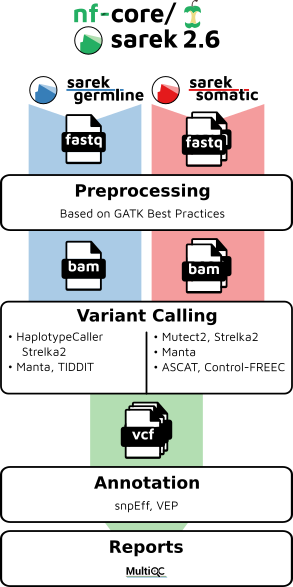
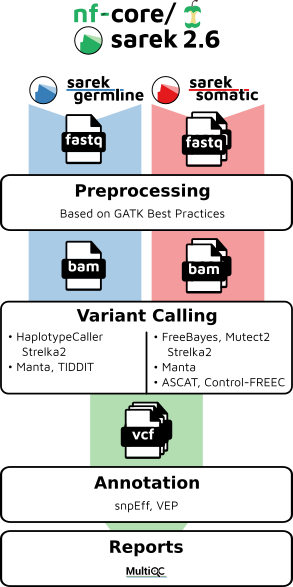
restore FreeBayes

Changed region(s): [[0.5529, 0.552, 0.9829, 0.6746]]

diff --git a/bin/scrape_software_versions.py b/bin/scrape_software_versions.py
@@ -9,6 +9,7 @@ regexes = {
     'bcftools': ['v_bcftools.txt', r"bcftools (\S+)"],
     'BWA': ['v_bwa.txt', r"Version: (\S+)"],
     'FastQC': ['v_fastqc.txt', r"FastQC v(\S+)"],
+    'FreeBayes': ['v_freebayes.txt', r"version:  v(\d\.\d\.\d+)"],
     'GATK': ['v_gatk.txt', r"Version:(\S+)"],
     'htslib': ['v_samtools.txt', r"htslib (\S+)"],
     'Manta': ['v_manta.txt', r"([0-9.]+)"],
@@ -32,6 +33,7 @@ results['ASCAT'] = '<span style="color:#999999;\">N/A</span>'
 results['bcftools'] = '<span style="color:#999999;\">N/A</span>'
 results['BWA'] = '<span style="color:#999999;\">N/A</span>'
 results['FastQC'] = '<span style="color:#999999;\">N/A</span>'
+results['FreeBayes'] = '<span style="color:#999999;\">N/A</span>'
 results['GATK'] = '<span style="color:#999999;\">N/A</span>'
 results['htslib'] = '<span style="color:#999999;\">N/A</span>'
 results['Manta'] = '<span style="color:#999999;\">N/A</span>'

diff --git a/docs/output.md b/docs/output.md
@@ -17,6 +17,7 @@ The pipeline processes data using the following steps:
         * `GATK ApplyBQSR`
 2. [**Variant calling**](#Variant-Calling)
     * SNVs and small indels
+        * [`FreeBayes`](#FreeBayes)
         * [`GATK HaplotypeCaller`](#HaplotypeCaller)
         * [`GATK GenotypeGVCFs`](#GenotypeGVCFs)
         * [`GATK Mutect2`](#Mutect2)
@@ -98,6 +99,18 @@ For all samples:
 All the results regarding variant-calling are collected in this directory.
 
 Recalibrated BAM files can also be used as an input to start the Variant Calling, for more information see [TSV files output information](#TSV-files)
+
+### FreeBayes
+
+[FreeBayes](https://github.com/ekg/freebayes) is a Bayesian genetic variant detector designed to find small polymorphisms, specifically SNPs, indels, MNPs, and complex events smaller than the length of a short-read sequencing alignment..
+
+For further reading and documentation see the [FreeBayes manual](https://github.com/ekg/freebayes/blob/master/README.md#user-manual-and-guide).
+
+For a Tumor/Normal pair only:
+**Output directory: `results/VariantCalling/[TUMOR_vs_NORMAL]/FreeBayes`**
+
+* `FreeBayes_[TUMORSAMPLE]_vs_[NORMALSAMPLE].vcf.gz` and `FreeBayes_[TUMORSAMPLE]_vs_[NORMALSAMPLE].vcf.gz.tbi`
+  * VCF with Tabix index
 
 ### HaplotypeCaller
 
@@ -318,6 +331,7 @@ For a Tumor/Normal pair only:
 
 This directory contains results from the final annotation steps: two software are used for annotation, [snpEff](http://snpeff.sourceforge.net/) and [VEP](https://www.ensembl.org/info/docs/tools/vep/index.html).
 Only a subset of the VCF files are annotated, and only variants that have a PASS filter.
+FreeBayes results are not annotated in the moment yet as we are lacking a decent somatic filter.
 For HaplotypeCaller the germline variations are annotated for both the tumor and the normal sample.
 
 ### snpEff

diff --git a/docs/containers.md b/docs/containers.md
@@ -20,6 +20,7 @@ For annotation, the main container can be used, but the cache has to be download
 - Contain **[BWA](https://github.com/lh3/bwa)** 0.7.17
 - Contain **[Control-FREEC](https://github.com/BoevaLab/FREEC)** 11.5
 - Contain **[FastQC](http://www.bioinformatics.babraham.ac.uk/projects/fastqc/)** 0.11.8
+- Contain **[FreeBayes](https://github.com/ekg/freebayes)** 1.3.1
 - Contain **[GATK4](https://github.com/broadinstitute/gatk)** 4.1.4.0
 - Contain **[GeneSplicer](https://ccb.jhu.edu/software/genesplicer/)** 1.0
 - Contain **[HTSlib](https://github.com/samtools/htslib)** 1.9

diff --git a/docs/usage.md b/docs/usage.md
@@ -279,7 +279,7 @@ Available: `mapping`, `recalibrate`, `variantcalling` and `annotate`
 ### `--tools`
 
 Use this to specify the tools to run:
-Available: `ASCAT`, `ControlFREEC`, `HaplotypeCaller`, `Manta`, `mpileup`, `Mutect2`, `Strelka`, `TIDDIT`
+Available: `ASCAT`, `ControlFREEC`, `FreeBayes`, `HaplotypeCaller`, `Manta`, `mpileup`, `Mutect2`, `Strelka`, `TIDDIT`
 
 ### `--noStrelkaBP`
 

diff --git a/CHANGELOG.md b/CHANGELOG.md
@@ -31,7 +31,6 @@ The format is based on [Keep a Changelog](http://keepachangelog.com/en/1.0.0/) a
 ### `Removed`
 
 - [#46](https://github.com/nf-core/sarek/pull/46) - Remove mention of old `build.nf` script which was included in `main.nf`
-- [#XXX](https://github.com/nf-core/sarek/pull/XXX) - Remove `Freebayes`
 
 ### `Fixed`
 
